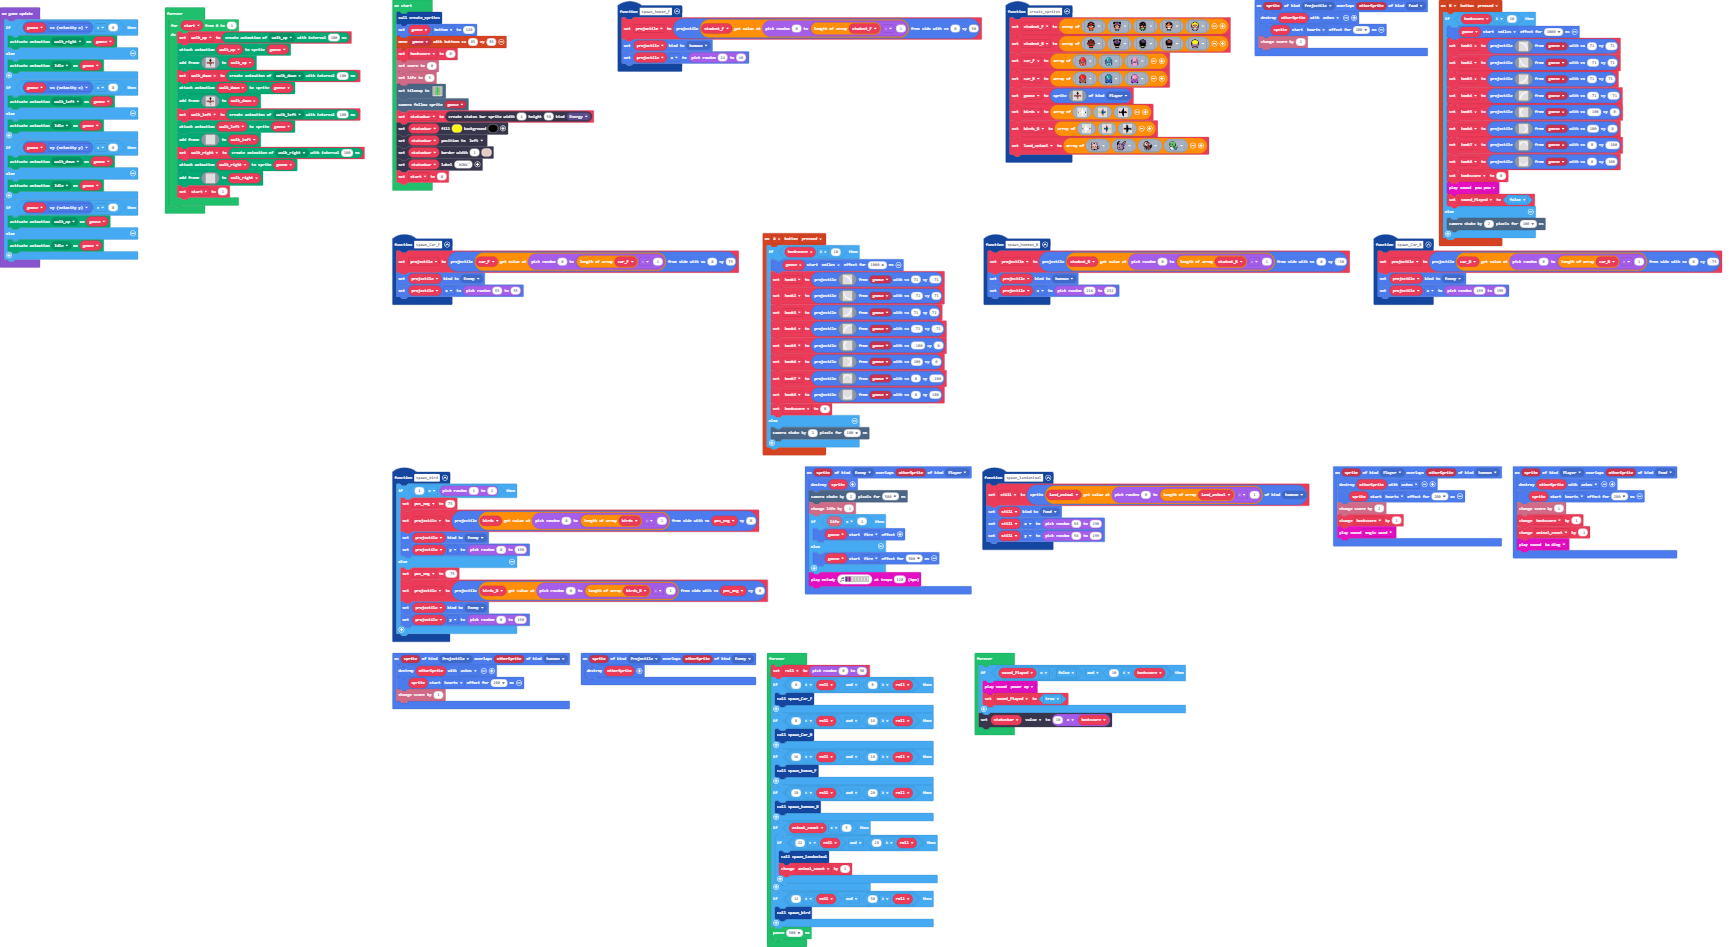
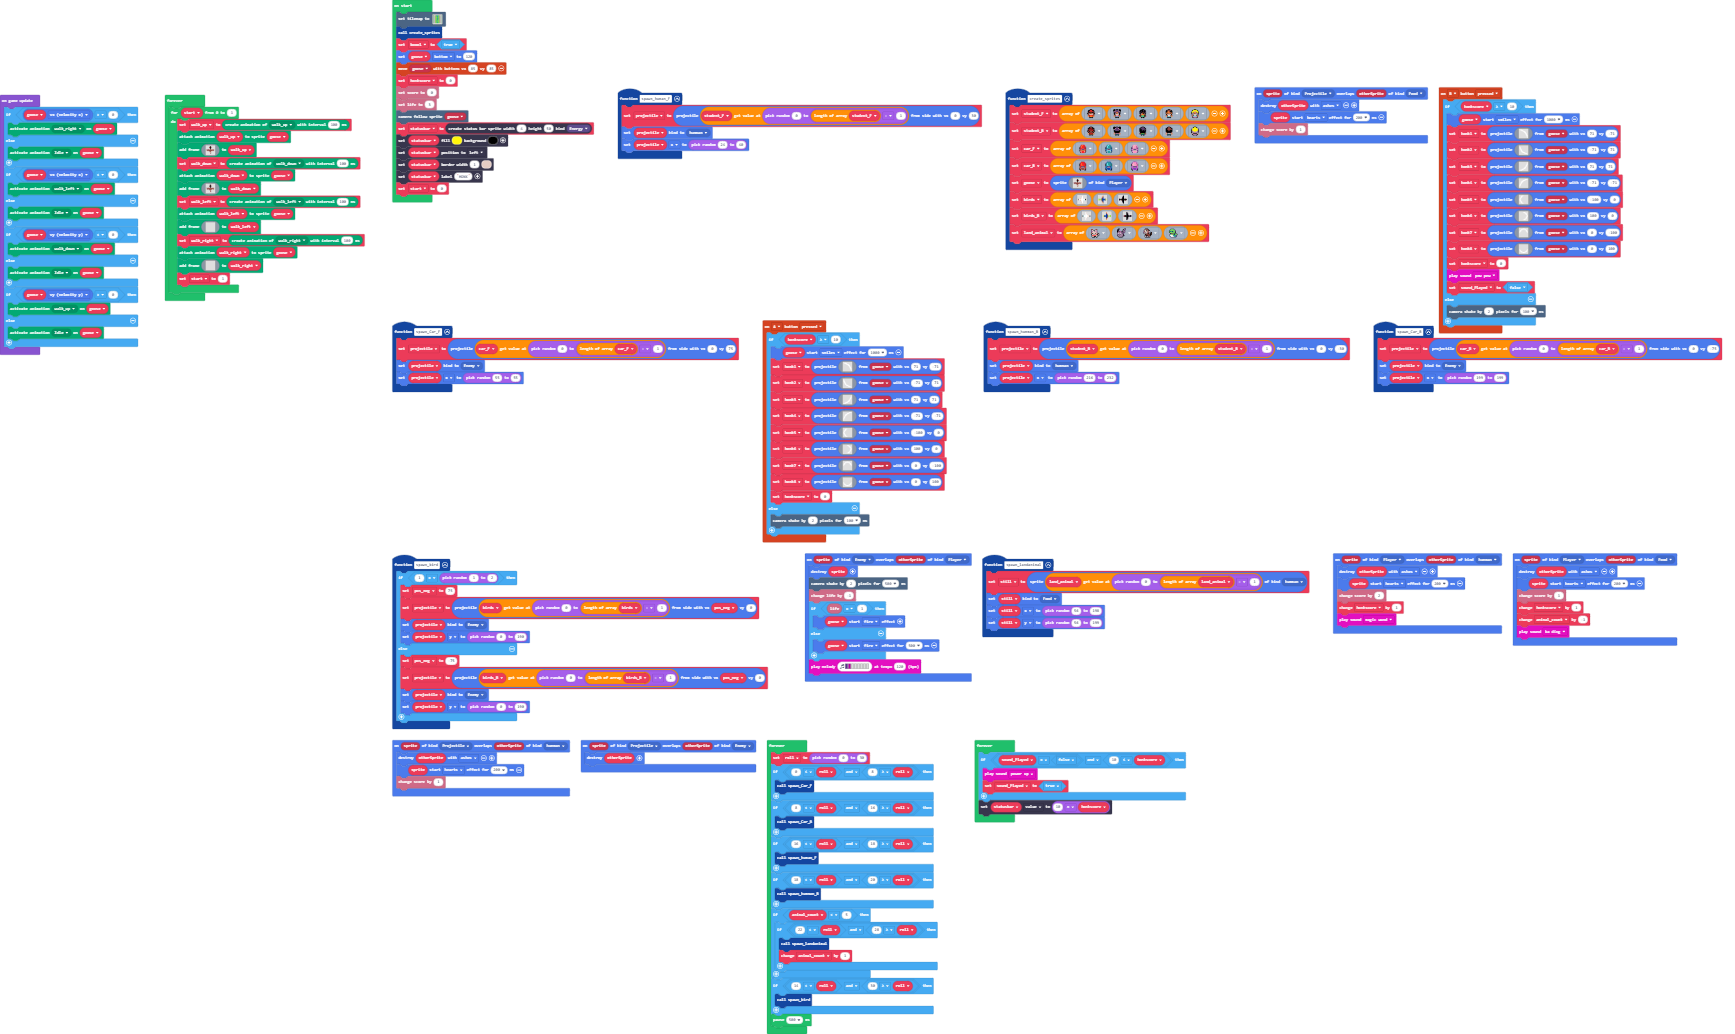
Update main.blocks, main.ts

Changed region(s): [[0.0, 0.0, 0.996, 1.0]]

diff --git a/main.ts b/main.ts
@@ -550,13 +550,14 @@ let student_F: Image[] = []
 let projectile: Sprite = null
 let honkscore = 0
 let goose: Sprite = null
+tiles.setTilemap(tilemap`level_3`)
 create_sprites()
+let boool = true
 goose.bottom = 120
 controller.moveSprite(goose, 85, 85)
 honkscore = 0
 info.setScore(0)
 info.setLife(3)
-tiles.setTilemap(tilemap`level_3`)
 scene.cameraFollowSprite(goose)
 let statusbar = statusbars.create(4, 50, StatusBarKind.Energy)
 statusbar.setColor(5, 15)
